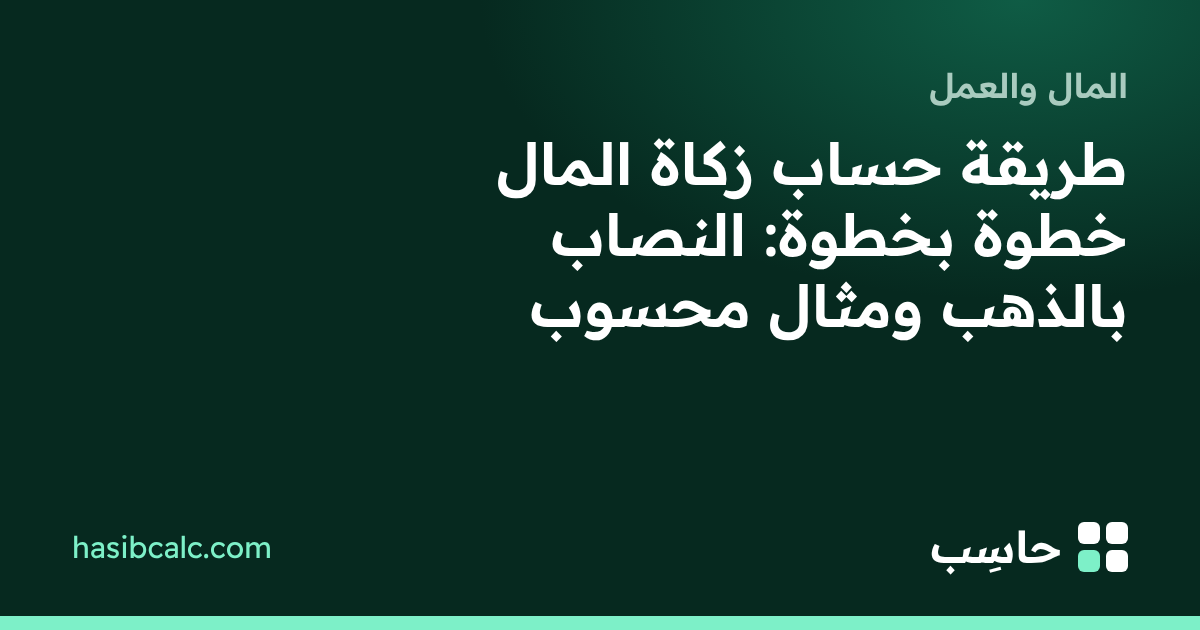
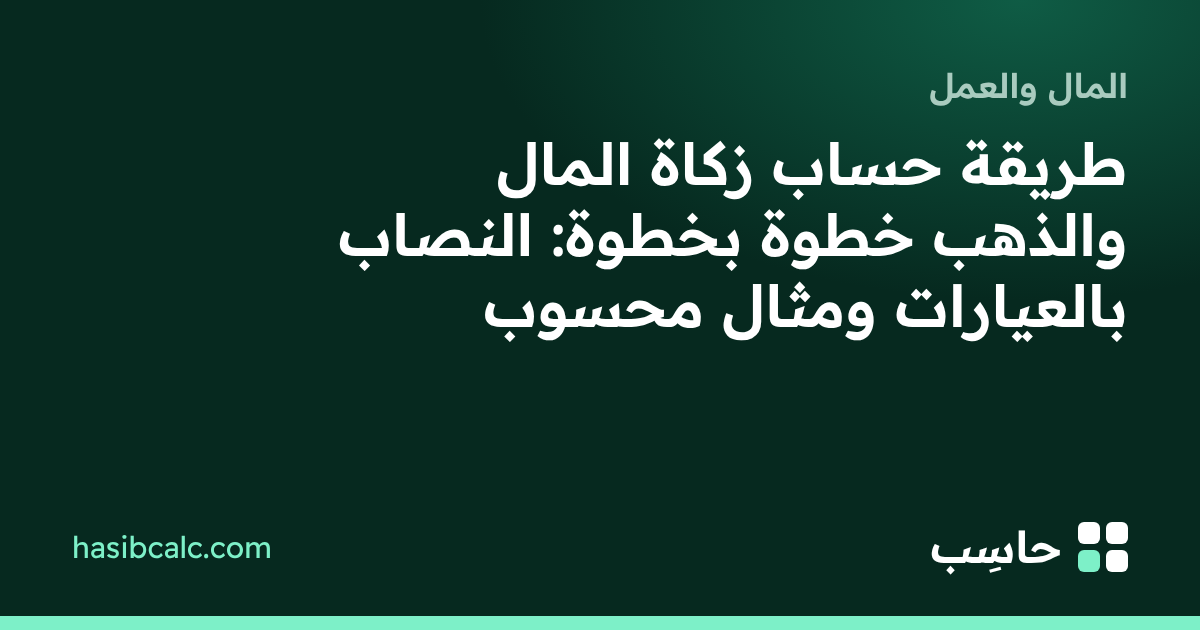
Zakat: add gold zakat by weight and karat (UAE Council for Fatwa statement via Emarat Al Youm: nisab per karat, 2.5%, no zakat on jewellery worn for adornment), two worked examples, FAQs on /zakat/ and the guide, guide title now covers gold
Claude-Session: https://claude.ai/code/session_01KKyL8svfUUTjcLXAGNStGe

Changed region(s): [[0.2775, 0.3317, 0.9558, 0.5429]]

diff --git a/src/data/guides.ts b/src/data/guides.ts
@@ -9,7 +9,7 @@ export const GUIDES: Guide[] = [
   { slug: 'end-of-service-guide', title: 'مكافأة نهاية الخدمة في الإمارات: الدليل الكامل بالأمثلة', description: 'كيف تُحسب مكافأة نهاية الخدمة للقطاع الخاص في الإمارات وفق المادة 51: الأجر اليومي، و21 و30 يوماً، والحد الأعلى، وأمثلة محسوبة.', calc: 'end-of-service', date: '2026-10-21', updated: '2026-10-28', minutes: 6, kicker: 'المال والعمل' },
   { slug: 'flat-vs-reducing-interest', title: 'الفرق بين الفائدة الثابتة والمتناقصة وطريقة حساب الفائدة المتناقصة: مثال محسوب', description: 'لماذا تبدو الفائدة الثابتة 4.5% أرخص وهي ليست كذلك؟ مقارنة محسوبة بين الفائدة الثابتة والمتناقصة على قرض 100,000 درهم.', calc: 'loan', date: '2026-10-21', updated: '2026-10-28', minutes: 5, kicker: 'المال والعمل' },
   { slug: 'vat-gulf-guide', title: 'ضريبة القيمة المضافة في الخليج: النسب وطريقة الحساب', description: 'نسب ضريبة القيمة المضافة في الإمارات والسعودية والبحرين وعُمان، وكيف تضيف الضريبة إلى السعر أو تستخرجها من سعر شامل، مع جداول جاهزة وطريقة فحص الفاتورة.', calc: 'vat', date: '2026-10-21', updated: '2026-10-28', minutes: 5, kicker: 'التسوق والنسب' },
-  { slug: 'zakat-step-by-step', title: 'طريقة حساب زكاة المال خطوة بخطوة: النصاب بالذهب ومثال محسوب', description: 'كيف تحسب زكاة المال: النصاب قيمة 85 غراماً من الذهب عيار 24 وما يقابله بالعيارات الأخرى، والحول، والديون، وربع العشر 2.5% مع مثال وجدول جاهز.', calc: 'zakat', date: '2026-10-21', updated: '2026-10-28', minutes: 6, kicker: 'المال والعمل' },
+  { slug: 'zakat-step-by-step', title: 'طريقة حساب زكاة المال والذهب خطوة بخطوة: النصاب بالعيارات ومثال محسوب', description: 'كيف تحسب زكاة المال والذهب: النصاب 85 غراماً من عيار 24 وما يقابله بالعيارات الأخرى، والحول، والديون، وربع العشر 2.5%، وحكم الحلي، مع أمثلة محسوبة.', calc: 'zakat', date: '2026-10-21', updated: '2026-10-29', minutes: 6, kicker: 'المال والعمل' },
   { slug: 'pregnancy-weeks-months', title: 'أسابيع الحمل بالأشهر: جدول من الأسبوع 1 إلى 40، والشهر كم أسبوع؟', description: 'كم أسبوعاً في شهر الحمل، وفي أي شهر أنتِ حسب أسبوعك: جدول كامل يحوّل أسابيع الحمل إلى أشهر وأثلاث، مع محوّل سريع وأسئلة شائعة.', calc: 'pregnancy', date: '2026-10-21', updated: '2026-10-27', minutes: 5, kicker: 'الصحة والعمر' },
   { slug: 'ideal-weight-by-height', title: 'الوزن المثالي حسب الطول: جدول للرجال والنساء من 150 إلى 195 سم', description: 'جدول الوزن الطبيعي لكل طول من 150 إلى 195 سم بحسب مؤشر كتلة الجسم 18.5–24.9، ومنتصف النطاق، وطريقة حسابه لطولك، ومتى لا يكفي هذا المؤشر.', calc: 'bmi', date: '2026-10-21', updated: '2026-10-28', minutes: 5, kicker: 'الصحة والعمر' },
   { slug: 'how-to-calculate-percentage', title: 'طريقة حساب النسبة المئوية: ثلاث حالات بأمثلة', description: 'كيف تحسب نسبة من رقم، وكم يمثل رقم من آخر، ونسبة الزيادة أو النقص، مع أمثلة من الراتب والخصومات والدرجات.', calc: 'percentage', date: '2026-10-21', updated: '2026-10-28', minutes: 4, kicker: 'التسوق والنسب' },

diff --git a/src/data/calculators.ts b/src/data/calculators.ts
@@ -144,7 +144,7 @@ export const CALCULATORS: CalculatorMeta[] = [
     categories: ['money'],
     terms: ['زكاة', 'الزكاة', 'نصاب', 'ذهب', 'مدخرات', 'ربع العشر', 'رمضان'],
     related: ['end-of-service', 'loan', 'percentage', 'vat'],
-    updated: '2026-10-25',
+    updated: '2026-10-29',
   },
   {
     slug: 'hijri',
